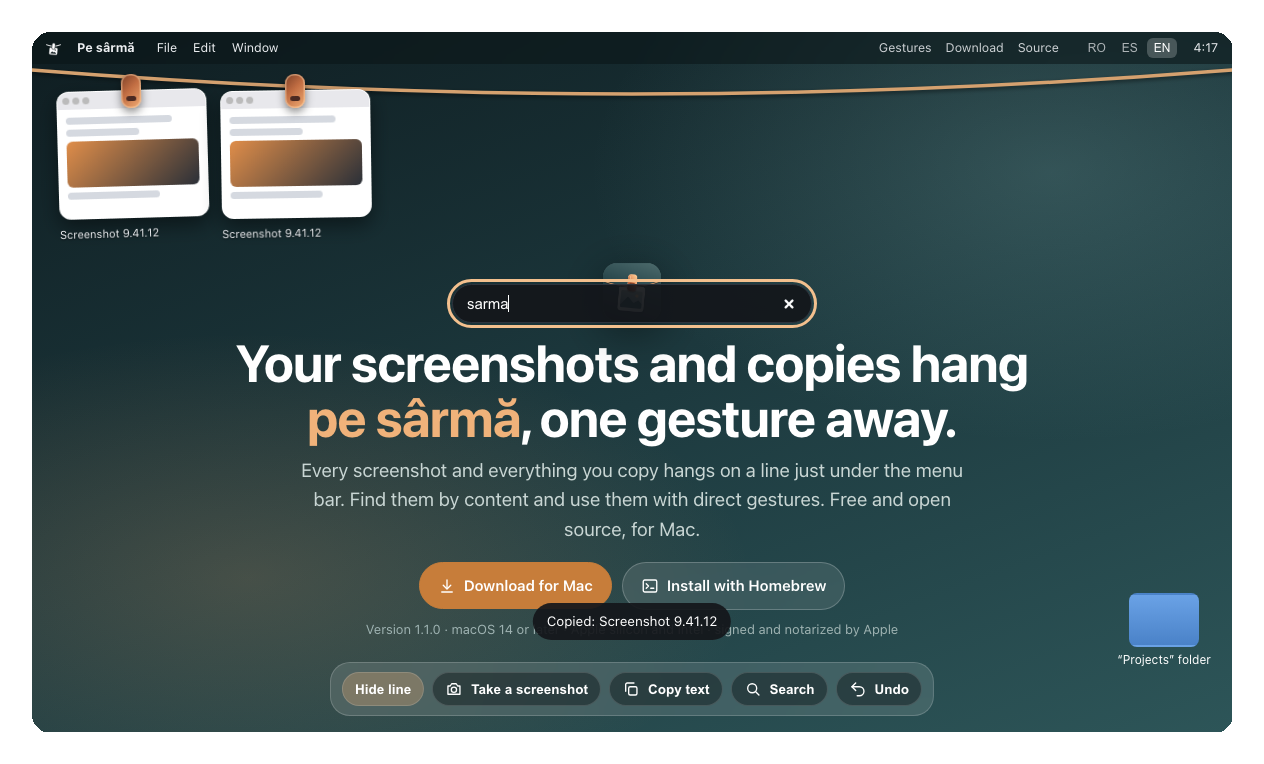
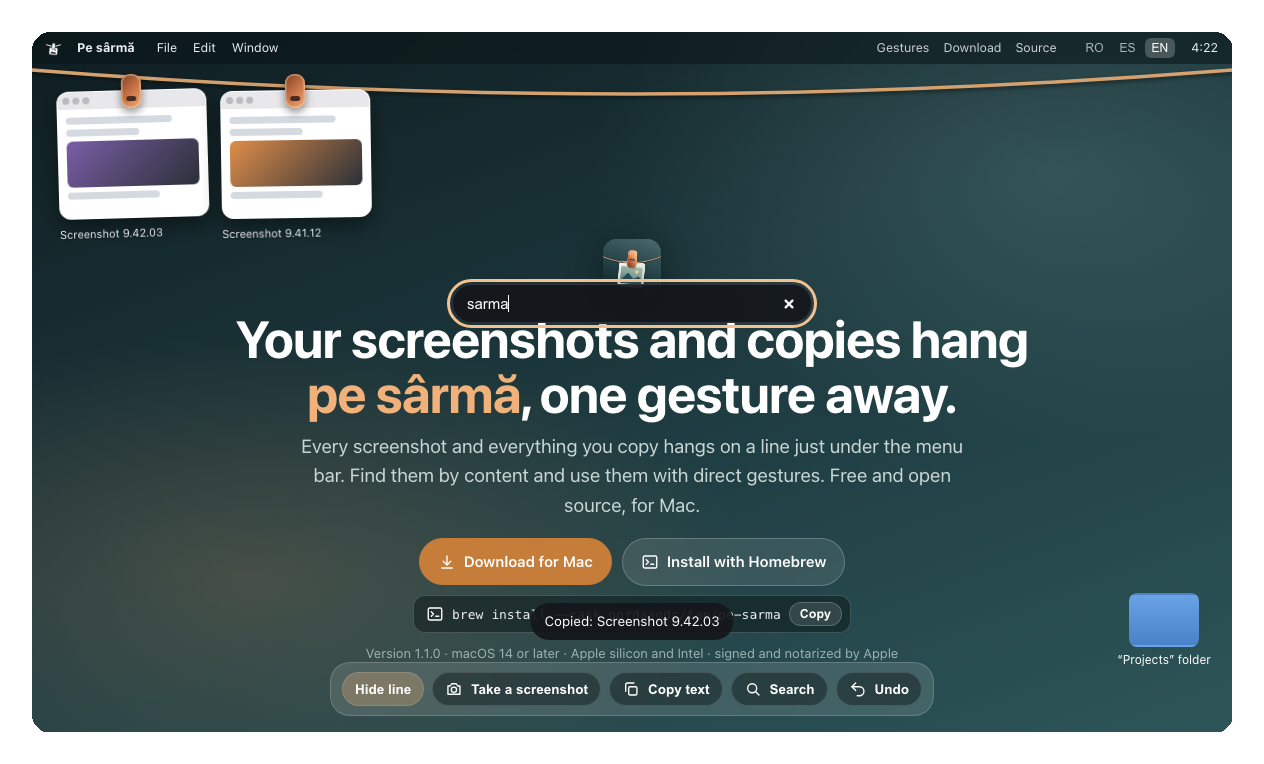
Site: comandă Homebrew în prima scenă, corecții pe mobil; imagini README reîmprospătate

diff --git a/site/index.html b/site/index.html
@@ -36,7 +36,7 @@
     <div class="mac" id="mac">
         <div class="menubar"><img src="img/status-icon.png?v=1.1.0" alt="" width="15" height="15" class="mbi"><b class="app">Pe sârmă</b><span aria-hidden="true" data-i="mb.file">Fișier</span><span aria-hidden="true" data-i="mb.edit">Editare</span><span aria-hidden="true" data-i="mb.window">Fereastră</span><span class="sp"></span><nav class="mbn" data-ial="nav.label" aria-label="Secțiuni"><a href="#gesturi" data-i="nav.gestures">Gesturi</a><a href="#descarca" data-i="nav.download">Descărcare</a><a href="https://github.com/gordasgdc/pe-sarma" data-i="nav.source">Sursa</a></nav><div class="lang" role="group" data-ial="lang.label" aria-label="Limba"><button type="button" data-lang="ro" aria-pressed="true">RO</button><button type="button" data-lang="es" aria-pressed="false">ES</button><button type="button" data-lang="en" aria-pressed="false">EN</button></div><span id="clock" aria-hidden="true">9:41</span></div>
         <button class="hotzone" id="hot" data-ial="demo.hot" aria-label="Arată sau ascunde firul"></button>
-        <div class="stage"><div class="hero" id="hero"><img class="mark" src="img/icon-512.png?v=1.1.0" alt="" width="84" height="84"><h1 data-ih="hero.h1">Capturile și ce copiezi stau <em>pe sârmă</em>, la un gest distanță.</h1><p data-i="hero.p">Fiecare captură.</p><div class="cta"><a class="btn primary" href="https://github.com/gordasgdc/pe-sarma/releases/latest/download/PeSarma.dmg" id="dl"><svg class="i"><use href="#i-down"/></svg><span data-i="cta.download">Descarcă pentru Mac</span></a><a class="btn" href="#descarca"><svg class="i"><use href="#i-term"/></svg><span data-i="cta.brew">Homebrew</span></a></div><span class="note" data-i="hero.note">Versiunea</span><div class="hint" id="hint" data-i="demo.hint">Ține cursorul</div></div></div>
+        <div class="stage"><div class="hero" id="hero"><img class="mark" src="img/icon-512.png?v=1.1.0" alt="" width="84" height="84"><h1 data-ih="hero.h1">Capturile și ce copiezi stau <em>pe sârmă</em>, la un gest distanță.</h1><p data-i="hero.p">Fiecare captură.</p><div class="cta"><a class="btn primary" href="https://github.com/gordasgdc/pe-sarma/releases/latest/download/PeSarma.dmg" id="dl"><svg class="i"><use href="#i-down"/></svg><span data-i="cta.download">Descarcă pentru Mac</span></a><a class="btn" href="#descarca"><svg class="i"><use href="#i-term"/></svg><span data-i="cta.brew">Homebrew</span></a></div><div class="cmd mini"><svg class="i"><use href="#i-term"/></svg><code>brew install --cask gordasgdc/tap/pe-sarma</code><button type="button" class="btn brew-copy-btn" data-i="d.copy">Copiază</button></div><span class="note" data-i="hero.note">Versiunea</span><div class="hint" id="hint" data-i="demo.hint">Ține cursorul</div></div></div>
         <div class="line" id="line" data-ial="demo.lineRegion" aria-label="Firul cu elementele agățate" role="region">
           <svg class="wire" viewBox="0 0 1000 60" preserveAspectRatio="none" aria-hidden="true"><path d="M0 6 Q500 54 1000 6"/></svg>
           <div class="cards" id="cards" role="list"></div>

diff --git a/site/demo.js b/site/demo.js
@@ -94,11 +94,13 @@ document.addEventListener('keydown',function(e){
   else if((e.metaKey||e.ctrlKey)&&e.code==='KeyZ'&&inDemo&&document.activeElement!==q){e.preventDefault();undoLast()}});
 function clock(){var d=new Date();$('clock').textContent=d.getHours()+':'+('0'+d.getMinutes()).slice(-2)}
 clock();setInterval(clock,20000);
-/* copy the Homebrew command */
-$('brew-copy').onclick=function(){var b=$('brew-copy'),txt=$('brew').textContent;
-  function done(){b.textContent=T('d.copied');setTimeout(function(){b.textContent=T('d.copy')},1500)}
-  if(navigator.clipboard&&navigator.clipboard.writeText){navigator.clipboard.writeText(txt).then(done,function(){sel()})}else sel();
-  function sel(){var r=document.createRange();r.selectNodeContents($('brew'));var s=getSelection();s.removeAllRanges();s.addRange(r);done()}};
+/* copy the Homebrew command (the pill in the first scene and the one in the install section) */
+function bindCopy(btn,code){btn.onclick=function(){var txt=code.textContent;
+  function done(){btn.textContent=T('d.copied');setTimeout(function(){btn.textContent=T('d.copy')},1500)}
+  function sel(){var r=document.createRange();r.selectNodeContents(code);var s=getSelection();s.removeAllRanges();s.addRange(r);done()}
+  if(navigator.clipboard&&navigator.clipboard.writeText){navigator.clipboard.writeText(txt).then(done,sel)}else sel()}}
+bindCopy($('brew-copy'),$('brew'));
+[].forEach.call(document.querySelectorAll('.brew-copy-btn'),function(b){bindCopy(b,b.parentNode.querySelector('code'))});
 add({kind:'note',welcome:true},true);
 add({kind:'shot',n:0},true);
 undo=[];

diff --git a/site/style.css b/site/style.css
@@ -142,3 +142,11 @@ section h2{font-size:clamp(24px,3.2vw,32px)}
 .dock{max-width:none;flex-wrap:nowrap;white-space:nowrap}
 .toast{bottom:92px}
 @media (max-width:900px){.dock{flex-wrap:wrap;white-space:normal;max-width:calc(100% - 20px)}.stage{padding-top:240px}}
+.cmd.mini{background:rgba(10,20,22,.5);border-color:rgba(255,255,255,.18);padding:6px 8px 6px 12px;gap:8px;flex-wrap:nowrap;border-radius:12px;color:#fff}
+.cmd.mini code{color:#EDEFF2;font-size:13px;white-space:nowrap}
+.cmd.mini .btn{padding:4px 10px;font-size:12.5px;background:rgba(255,255,255,.12);border-color:rgba(255,255,255,.2);color:#fff}
+@media (max-width:640px){.cmd.mini code{font-size:11px}}
+.stage{grid-template-columns:minmax(0,1fr)}
+.hero{width:100%;min-width:0}
+.hero .cta{max-width:100%}
+@media (max-width:640px){.cmd.mini{flex-wrap:wrap;justify-content:center}.cmd.mini code{white-space:normal;overflow-wrap:anywhere;font-size:12px;text-align:center}.hero .note{max-width:100%}}
